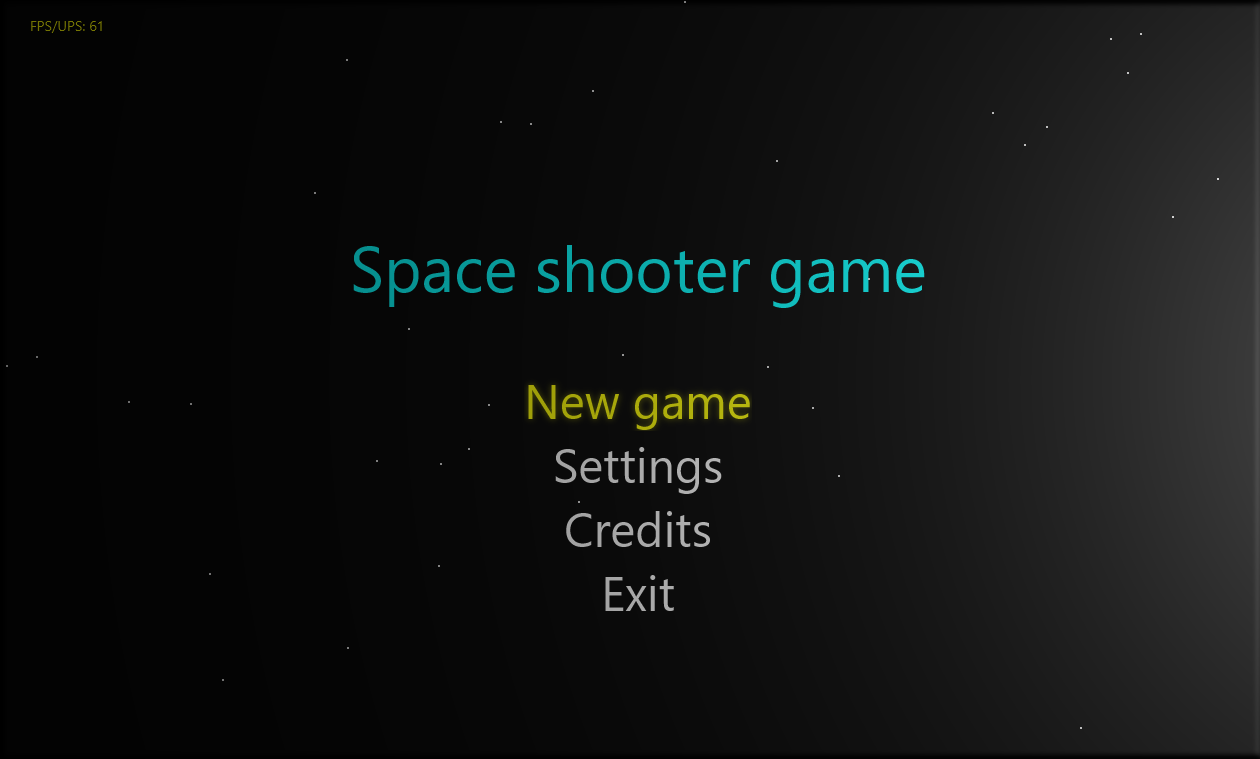
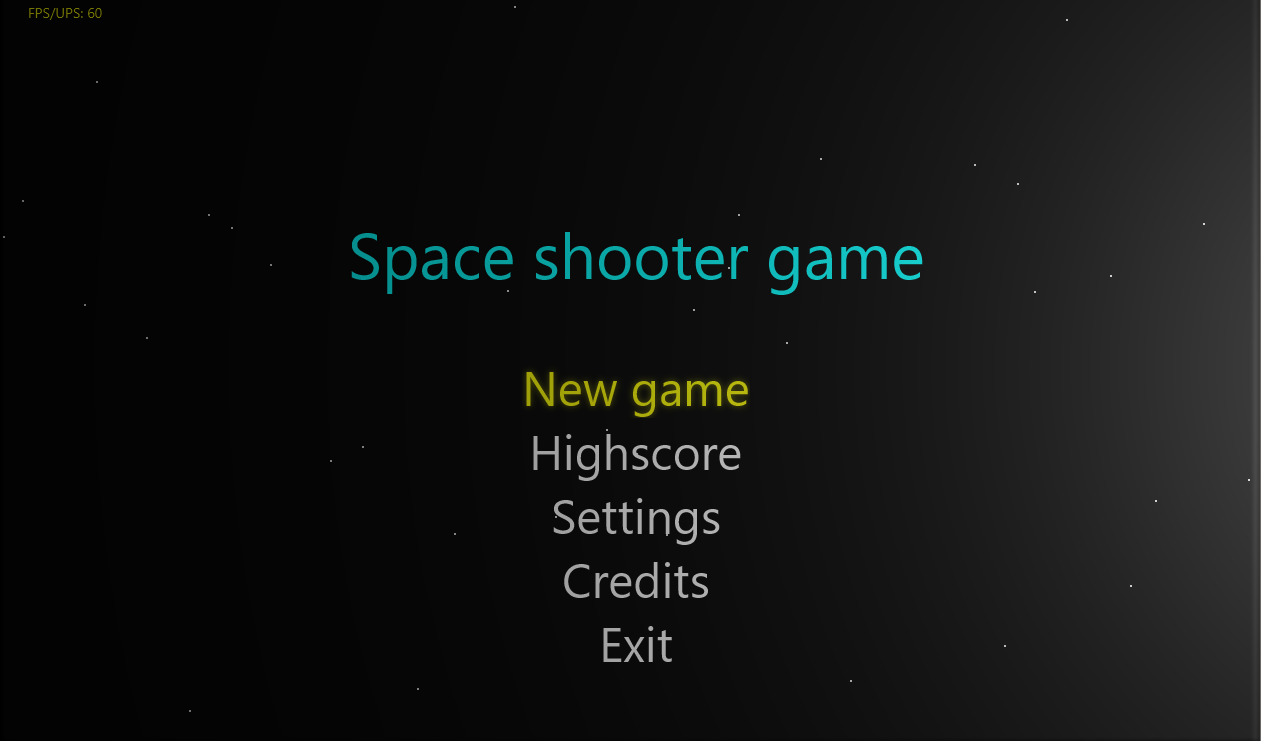
Implemented savable highscore (closes #10)

diff --git a/src/main/java/nschultz/game/states/HighscoreState.java b/src/main/java/nschultz/game/states/HighscoreState.java
@@ -1,0 +1,58 @@
+package nschultz.game.states;
+
+import javafx.geometry.VPos;
+import javafx.scene.canvas.GraphicsContext;
+import javafx.scene.effect.Glow;
+import javafx.scene.input.KeyCode;
+import javafx.scene.input.KeyEvent;
+import javafx.scene.paint.Color;
+import javafx.scene.text.Font;
+import javafx.scene.text.TextAlignment;
+import nschultz.game.ui.GameCanvas;
+import nschultz.game.util.Highscore;
+
+public class HighscoreState extends GameState {
+
+    private final int highScore = new Highscore().score();
+
+    HighscoreState(final GameCanvas game) {
+        super(game);
+    }
+
+    @Override
+    public void onKeyInput(final KeyEvent event, final boolean isPressed) {
+        if (isPressed) {
+            if (event.getCode() == KeyCode.ENTER) {
+                game().switchGameState(new MenuState(game()));
+            }
+        }
+    }
+
+    @Override
+    public void update(final long now) {
+    }
+
+    @Override
+    public void render(final GraphicsContext brush, final long now) {
+        final double w = game().resolution().getWidth();
+        final double h = game().resolution().getHeight();
+
+        brush.setFill(Color.BLACK);
+        brush.fillRect(0, 0, w, h);
+
+        brush.setFill(Color.YELLOW);
+        brush.setEffect(new Glow(1.0));
+        brush.setFont(Font.font(64));
+        brush.setTextAlign(TextAlignment.CENTER);
+        brush.setTextBaseline(VPos.CENTER);
+        brush.fillText("You current high score is: ", w / 2, h / 4);
+        brush.setFill(Color.LIGHTYELLOW);
+        brush.fillText(String.valueOf(highScore), w / 2, h / 2);
+
+        // reset for other render() users
+        brush.setEffect(null);
+        brush.setTextAlign(TextAlignment.LEFT);
+        brush.setTextBaseline(VPos.BASELINE);
+    }
+}
+

diff --git a/src/main/java/nschultz/game/states/GameOverState.java b/src/main/java/nschultz/game/states/GameOverState.java
@@ -33,12 +33,17 @@ import javafx.scene.paint.Color;
 import javafx.scene.text.Font;
 import javafx.scene.text.TextAlignment;
 import nschultz.game.ui.GameCanvas;
+import nschultz.game.util.Highscore;
+import nschultz.game.util.IsNewHighscore;
 
 public final class GameOverState extends GameState {
 
     public GameOverState(final GameCanvas game) {
         super(game);
         game().entities().clear();
+        if (new IsNewHighscore(game).value()) {
+            new Highscore().save(game.score());
+        }
     }
 
     @Override
@@ -60,11 +65,16 @@ public final class GameOverState extends GameState {
         brush.setFont(Font.font(64));
         final int maxWidth = 512;
         brush.fillText("Game Over!", w / 2, h / 2, maxWidth);
-
+        brush.setFont(Font.font(48));
         brush.setEffect(null);
-        brush.setFont(Font.font(32));
         brush.setFill(Color.ORANGE);
-        brush.fillText("Press ENTER to continue", w / 2, h / 1.5, maxWidth);
+        brush.fillText("You reached a score of " + game().score(),
+                w / 2, h / 1.5, maxWidth
+        );
+
+        brush.setFill(Color.GRAY);
+        brush.setFont(Font.font(32));
+        brush.fillText("Press ENTER to continue", w / 2, h / 1.25, maxWidth);
         brush.setTextBaseline(VPos.BASELINE);
         brush.setTextAlign(TextAlignment.LEFT);
     }

diff --git a/src/main/java/nschultz/game/states/MenuState.java b/src/main/java/nschultz/game/states/MenuState.java
@@ -41,14 +41,16 @@ public final class MenuState extends GameState {
 
     private final String[] options = new String[]{
             "New game",
+            "Highscore",
             "Settings",
             "Credits",
             "Exit"
     };
 
     private static final int START_INDEX = 0;
-    private static final int SETTINGS_INDEX = 1;
-    private static final int CREDITS_STATE = 2;
+    private static final int HIGHSCORE_INDEX = 1;
+    private static final int SETTINGS_INDEX = 2;
+    private static final int CREDITS_STATE = 3;
     private int currentIndex = 0;
 
     public MenuState(final GameCanvas game) {
@@ -109,6 +111,8 @@ public final class MenuState extends GameState {
                 case ENTER:
                     if (currentIndex == START_INDEX) {
                         game().switchGameState(new Level1State(game()));
+                    } else if (currentIndex == HIGHSCORE_INDEX) {
+                        game().switchGameState(new HighscoreState(game()));
                     } else if (currentIndex == SETTINGS_INDEX) {
                         game().switchGameState(new SettingsState(game()));
                     } else if (currentIndex == CREDITS_STATE) {

diff --git a/src/main/java/nschultz/game/util/Highscore.java b/src/main/java/nschultz/game/util/Highscore.java
@@ -1,0 +1,35 @@
+package nschultz.game.util;
+
+import java.io.File;
+import java.io.IOException;
+import java.nio.charset.StandardCharsets;
+import java.nio.file.Files;
+import java.nio.file.Path;
+import java.nio.file.Paths;
+
+public final class Highscore {
+
+    public static final Path PATH = Paths.get(
+            System.getProperty("user.dir") + File.separator + "highscore.txt"
+    );
+
+    public void save(final int data) {
+        try {
+            final byte[] bytes = Integer.toBinaryString(data).getBytes(
+                    StandardCharsets.UTF_8
+            );
+            Files.write(PATH, bytes);
+        } catch (final IOException e) {
+            new ErrorLog(e.toString()).log();
+        }
+    }
+
+    public int score() {
+        try {
+            return Integer.parseInt(new String(Files.readAllBytes(PATH)), 2);
+        } catch (final IOException e) {
+            new ErrorLog(e.toString()).log();
+        }
+        return -1;
+    }
+}

diff --git a/src/main/java/nschultz/game/states/VictoryState.java b/src/main/java/nschultz/game/states/VictoryState.java
@@ -32,11 +32,16 @@ import javafx.scene.paint.Color;
 import javafx.scene.text.Font;
 import javafx.scene.text.TextAlignment;
 import nschultz.game.ui.GameCanvas;
+import nschultz.game.util.Highscore;
+import nschultz.game.util.IsNewHighscore;
 
 public final class VictoryState extends GameState {
 
     public VictoryState(final GameCanvas game) {
         super(game);
+        if(new IsNewHighscore(game).value()){
+            new Highscore().save(game.score());
+        }
     }
 
     @Override

diff --git a/src/main/java/nschultz/game/GameApp.java b/src/main/java/nschultz/game/GameApp.java
@@ -28,11 +28,17 @@ package nschultz.game;
 import javafx.application.Application;
 import javafx.stage.Stage;
 import nschultz.game.ui.GameStage;
+import nschultz.game.util.Highscore;
+
+import java.nio.file.Files;
 
 public final class GameApp extends Application {
 
     @Override
     public void start(final Stage primaryStage) {
+        if (!Files.exists(Highscore.PATH)) {
+            new Highscore().save(0);
+        }
         new GameStage(primaryStage).show();
     }
 

diff --git a/src/main/java/nschultz/game/util/ErrorLog.java b/src/main/java/nschultz/game/util/ErrorLog.java
@@ -1,0 +1,19 @@
+package nschultz.game.util;
+
+import java.util.Objects;
+import java.util.logging.Level;
+import java.util.logging.Logger;
+
+public final class ErrorLog implements Log {
+
+    private String error;
+
+    ErrorLog(final String error) {
+        this.error = Objects.requireNonNull(error);
+    }
+
+    @Override
+    public void log() {
+        Logger.getLogger(getClass().getName()).log(Level.SEVERE, error);
+    }
+}

diff --git a/src/main/java/nschultz/game/util/IsNewHighscore.java b/src/main/java/nschultz/game/util/IsNewHighscore.java
@@ -1,0 +1,19 @@
+package nschultz.game.util;
+
+import nschultz.game.ui.GameCanvas;
+
+import java.util.Objects;
+
+public final class IsNewHighscore implements Result<Boolean> {
+
+    private final GameCanvas game;
+
+    public IsNewHighscore(final GameCanvas game) {
+        this.game = Objects.requireNonNull(game);
+    }
+
+    @Override
+    public Boolean value() {
+        return game.score() > new Highscore().score();
+    }
+}

diff --git a/src/main/java/nschultz/game/ui/GameCanvas.java b/src/main/java/nschultz/game/ui/GameCanvas.java
@@ -101,7 +101,8 @@ public final class GameCanvas extends Canvas {
                 !(state instanceof GameOverState) &&
                 !(state instanceof SettingsState) &&
                 !(state instanceof VideoSettingsState) &&
-                !(state instanceof CreditsState);
+                !(state instanceof CreditsState) &&
+                !(state instanceof HighscoreState);
     }
 
     void startPulseSystem() {

diff --git a/src/main/java/nschultz/game/util/Log.java b/src/main/java/nschultz/game/util/Log.java
@@ -1,0 +1,7 @@
+package nschultz.game.util;
+
+public interface Log {
+
+    void log();
+
+}
